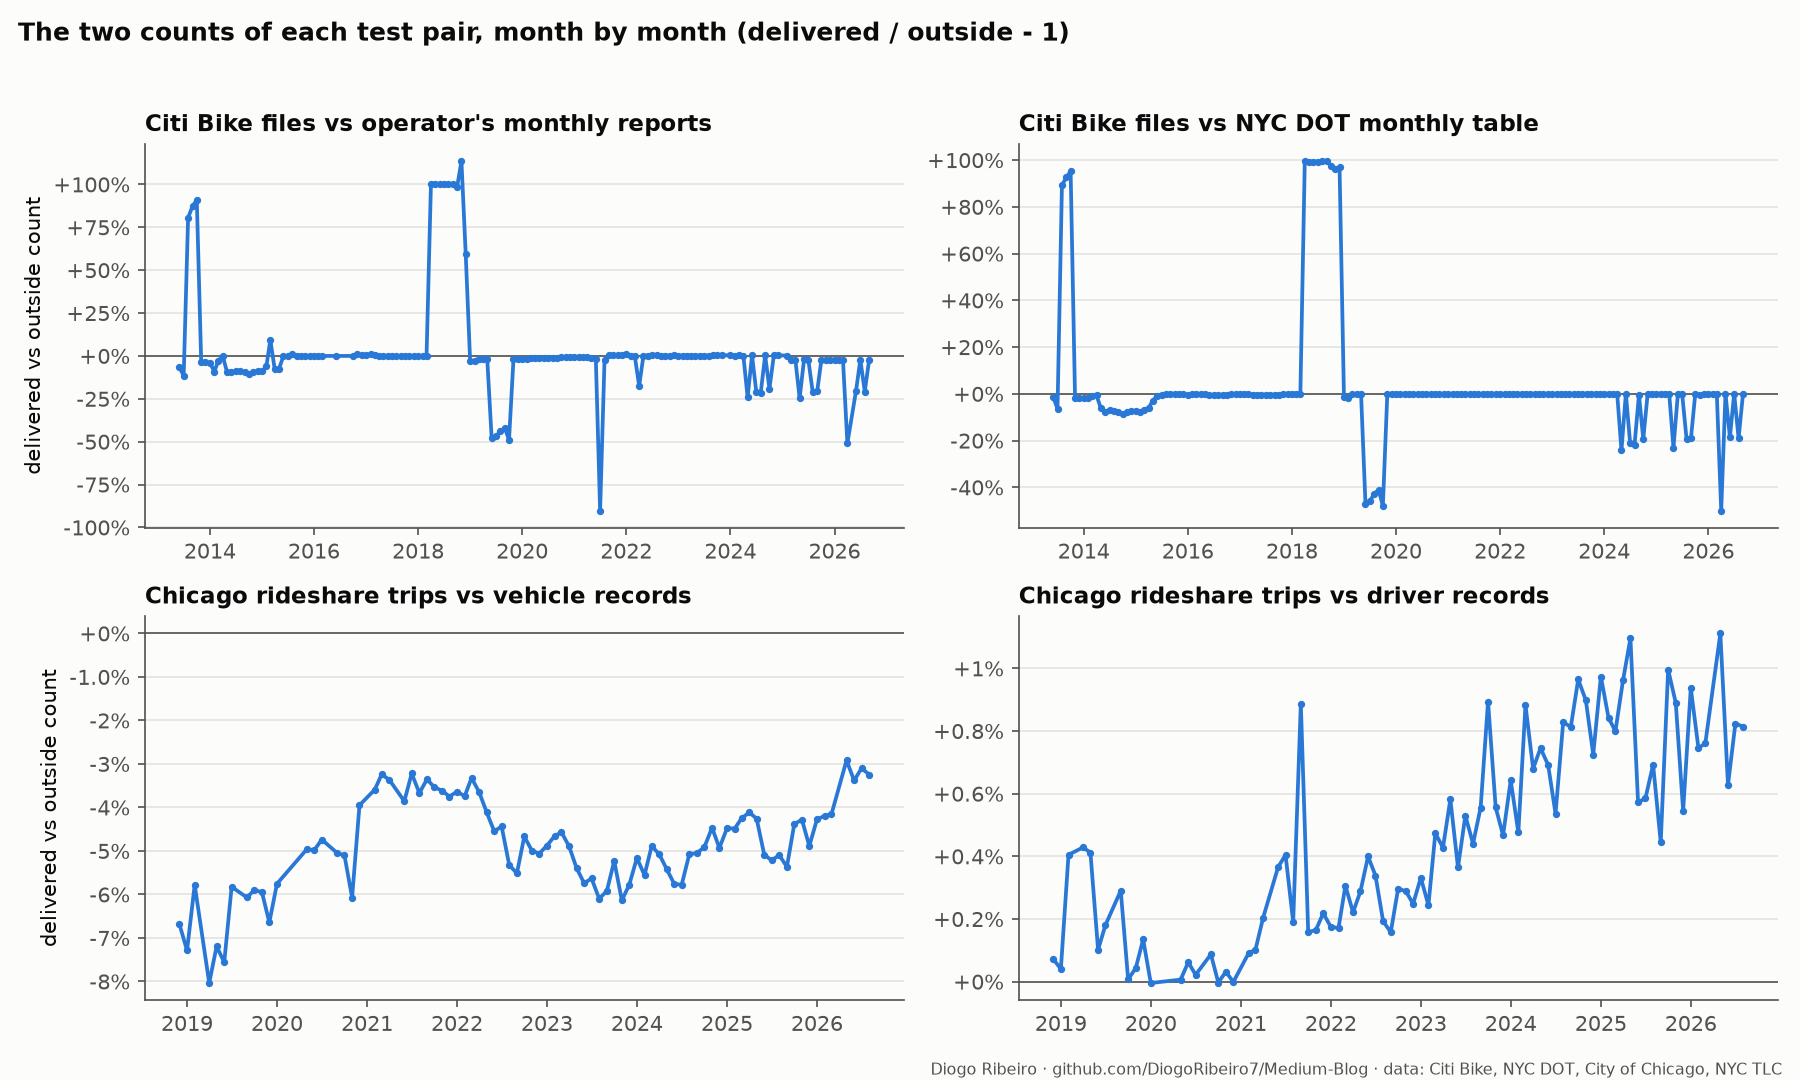
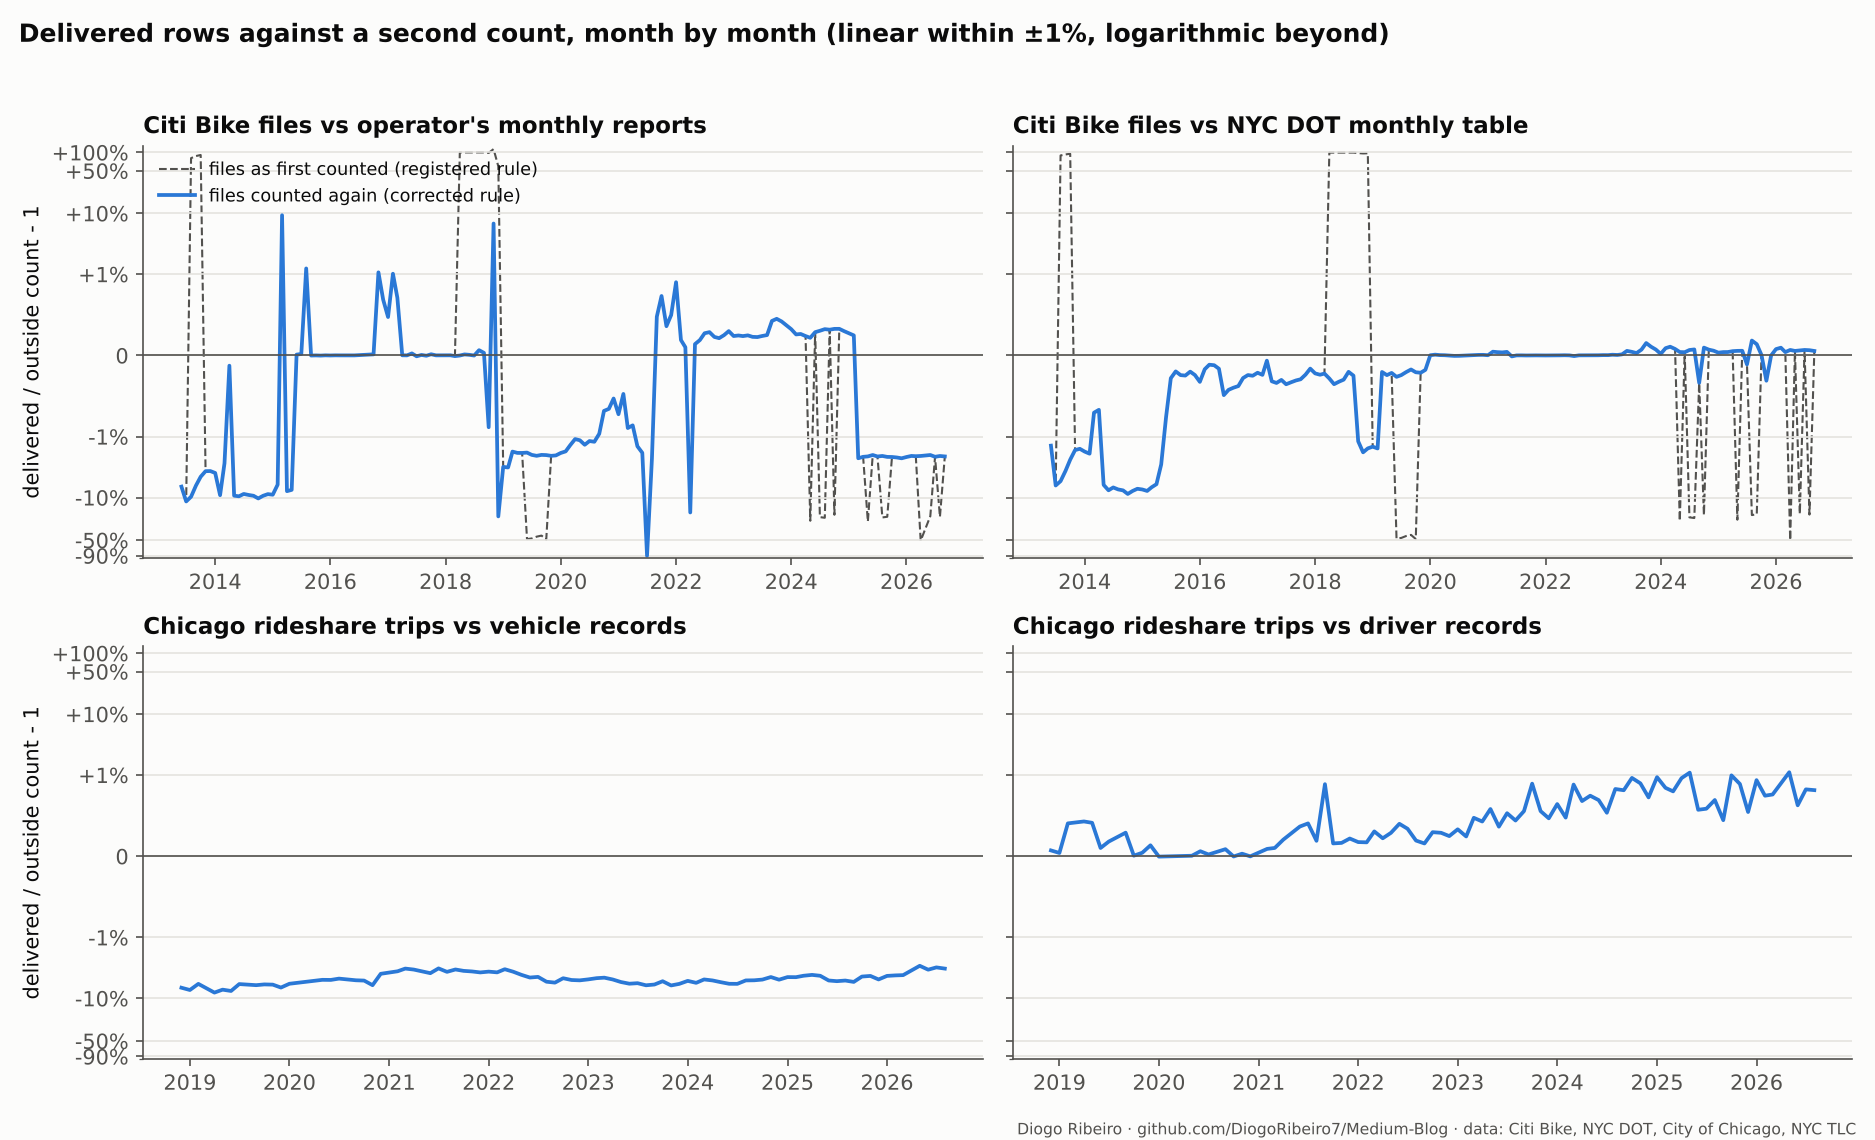
second-count-prediction: two figures (agreement; prediction against observation), README results

diff --git a/second-count-prediction/figures.py b/second-count-prediction/figures.py
@@ -2,9 +2,9 @@
 
     python figures.py
 
-fig1  the two counts of each test pair, month by month: delivered / outside - 1
-fig2  share of random losses caught, by loss, for the four test pairs, with the two predictions marked
-fig3  predicted against observed smallest loss caught 90% of the time, test and calibration pairs
+fig1  the two counts of each test pair, month by month: delivered / outside - 1 (Citi Bike as first counted,
+      with the registered rule, and as counted again with the corrected rule)
+fig2  detection against loss / predicted loss, and predicted against observed (post hoc counts for Citi Bike)
 """
 
 from __future__ import annotations
@@ -53,29 +53,36 @@ plt.rcParams.update(
 )
 
 
-def pct(x, _=None):
-    return f"{100 * x:+.0f}%" if abs(x) >= 0.01 or x == 0 else f"{100 * x:+.1f}%"
-
-
 def loss_label(x, _=None):
-    return f"{100 * x:.2g}%"
+    return f"{100 * x:g}%"
 
 
-def fig1(ratios: pd.DataFrame) -> None:
-    fig, axes = plt.subplots(2, 2, figsize=(12, 7.2), sharex=False)
+def fig1(reg: pd.DataFrame, cor: pd.DataFrame) -> None:
+    """The two counts of each test pair, month by month, on a scale that is linear within +-1%."""
+    fig, axes = plt.subplots(2, 2, figsize=(12.5, 7.6), sharey=True)
     for ax, pair in zip(axes.flat, TEST, strict=True):
-        d = ratios[ratios.pair == pair].copy()
-        d["t"] = pd.to_datetime(d.month + "-01")
-        y = (d.log_ratio.astype(float)).map(math.expm1)
+        for frame, color, lw, label, z in (
+            (reg, INK2, 1.0, "files as first counted (registered rule)", 1),
+            (cor, BLUE, 1.8, "files counted again (corrected rule)", 2),
+        ):
+            d = frame[frame.pair == pair]
+            if pair.startswith("chicago") and frame is reg:
+                continue
+            t = pd.to_datetime(d.month + "-01")
+            y = d.log_ratio.astype(float).map(math.expm1)
+            ax.plot(t, y, color=color, lw=lw, ls="--" if frame is reg else "-", label=label, zorder=z)
         ax.axhline(0, color=INK2, lw=0.8)
-        ax.plot(d.t, y, color=BLUE, lw=1.8, marker="o", ms=2.5)
+        ax.set_yscale("symlog", linthresh=0.01, linscale=1.2)
+        ax.set_ylim(-1.0, 1.3)
+        ax.yaxis.set_major_locator(mticker.FixedLocator([-0.9, -0.5, -0.1, -0.01, 0, 0.01, 0.1, 0.5, 1.0]))
+        ax.yaxis.set_major_formatter(mticker.FuncFormatter(lambda v, _: f"{100 * v:+.0f}%" if v else "0"))
         ax.set_title(TITLE[pair], loc="left")
-        ax.yaxis.set_major_formatter(mticker.FuncFormatter(pct))
         ax.grid(axis="y", color=GRID, lw=0.8)
-    axes[0, 0].set_ylabel("delivered vs outside count")
-    axes[1, 0].set_ylabel("delivered vs outside count")
+    axes[0, 0].legend(frameon=False, fontsize=8.5, loc="upper left")
+    for ax in axes[:, 0]:
+        ax.set_ylabel("delivered / outside count - 1")
     fig.suptitle(
-        "The two counts of each test pair, month by month (delivered / outside - 1)",
+        "Delivered rows against a second count, month by month (linear within ±1%, logarithmic beyond)",
         x=0.01,
         ha="left",
         fontweight="bold",
@@ -87,98 +94,72 @@ def fig1(ratios: pd.DataFrame) -> None:
 
 
 def fig2(curves: pd.DataFrame, pairs: dict) -> None:
-    fig, axes = plt.subplots(1, 4, figsize=(15, 4.3), sharey=True)
-    for ax, pair in zip(axes, TEST, strict=True):
-        d = curves[curves.pair == pair]
-        p = pairs[pair]
-        ax.axhline(0.9, color=INK2, lw=0.8, ls=":")
-        ax.plot(d.loss, d.detected, color=BLUE, lw=2, marker="o", ms=3.5, label="caught (5% alarm budget)")
-        ax.axvline(p["predicted_p95_rule"], color=ORANGE, lw=1.6, label="p95 rule")
-        ax.axvspan(p["predicted_p95_rule"] / 2, min(2 * p["predicted_p95_rule"], 0.6), color=ORANGE, alpha=0.08)
-        ax.axvline(p["predicted_gaussian_rule"], color=VIOLET, lw=1.4, ls="--", label="Gaussian rule")
-        ax.set_xscale("log")
-        ax.set_xlim(0.0009, 0.55)
-        ax.xaxis.set_major_locator(mticker.FixedLocator([0.001, 0.01, 0.1, 0.5]))
-        ax.xaxis.set_major_formatter(mticker.FuncFormatter(loss_label))
-        ax.yaxis.set_major_formatter(mticker.PercentFormatter(1.0))
-        ax.set_title(TITLE[pair].replace(" vs ", "\nvs "), loc="left", fontsize=10)
-        ax.set_xlabel("rows lost at random")
-        ax.grid(color=GRID, lw=0.6)
-    axes[0].set_ylabel("faulted months caught")
-    axes[0].legend(frameon=False, fontsize=8, loc="upper left")
+    """Left: detection against loss / predicted loss. Right: predicted against observed, both rules."""
+    fig, (ax, bx) = plt.subplots(1, 2, figsize=(13.5, 5.8), gridspec_kw={"width_ratios": [1.25, 1]})
+    colors = dict(zip(TEST, (BLUE, AQUA, ORANGE, VIOLET), strict=True))
+    for name, p in pairs.items():
+        d = curves[curves.pair == name]
+        x = d.loss / p["predicted_p95_rule"]
+        if p["test"]:
+            ax.plot(x, d.detected, color=colors[name], lw=2, label=TITLE[name])
+        else:
+            ax.plot(x, d.detected, color=GRID, lw=1.2, zorder=0)
+    ax.axvspan(0.5, 2, color=ORANGE, alpha=0.08, lw=0)
+    ax.axvline(1, color=ORANGE, lw=1)
+    ax.axhline(0.9, color=INK2, lw=0.8, ls=":")
+    ax.set_xscale("log")
+    ax.set_xlim(0.01, 30)
+    ax.xaxis.set_major_formatter(mticker.FuncFormatter(lambda v, _: f"{v:g}x"))
+    ax.yaxis.set_major_formatter(mticker.PercentFormatter(1.0))
+    ax.set_xlabel("rows lost, as a multiple of the loss the p95 rule predicts")
+    ax.set_ylabel("faulted months caught (5% alarm budget)")
+    ax.set_title("Detection against the prediction (grey: Part 4's TLC pairs)", loc="left", fontsize=10)
+    ax.legend(frameon=False, fontsize=8, loc="lower right")
+    ax.grid(color=GRID, lw=0.6)
+
+    lo, hi = 0.0001, 1.0
+    xs = [lo, hi]
+    bx.plot(xs, xs, color=INK2, lw=1)
+    bx.fill_between(xs, [x / 2 for x in xs], [2 * x for x in xs], color=ORANGE, alpha=0.08, lw=0)
+    for name, p in pairs.items():
+        obs = p["observed_l90"]
+        c = colors.get(name, INK2)
+        bx.plot([p["predicted_gaussian_rule"], p["predicted_p95_rule"]], [obs, obs], color=GRID, lw=1, zorder=1)
+        bx.scatter(p["predicted_p95_rule"], obs, s=70, zorder=3, color=c if p["test"] else SURFACE, edgecolor=c, lw=1.5)
+        bx.scatter(p["predicted_gaussian_rule"], obs, s=36, zorder=2, marker="s", color=SURFACE, edgecolor=c, lw=1.2)
+    bx.set_xscale("log")
+    bx.set_yscale("log")
+    bx.set_xlim(lo, hi)
+    bx.set_ylim(lo, hi)
+    for axis in (bx.xaxis, bx.yaxis):
+        axis.set_major_formatter(mticker.FuncFormatter(loss_label))
+    bx.set_xlabel("predicted smallest loss caught 90% of the time")
+    bx.set_ylabel("observed")
+    bx.set_title("Circles: p95 rule; squares: Gaussian rule; band: factor of two", loc="left", fontsize=10)
+    bx.grid(color=GRID, lw=0.6)
     fig.suptitle(
-        "Random losses caught by the outside count, with the two predictions (shaded: within a factor of two "
-        "of the p95 rule)",
+        "Does agreement on clean months predict the smallest loss a second count catches?",
         x=0.01,
         ha="left",
         fontweight="bold",
     )
     fig.text(0.99, 0.005, CREDIT, ha="right", fontsize=7.5, color=INK2)
-    fig.tight_layout(rect=(0, 0.03, 1, 0.93))
-    fig.savefig(FIG / "fig2_detection.png", dpi=150)
-    plt.close(fig)
-
-
-def fig3(pairs: dict) -> None:
-    fig, ax = plt.subplots(figsize=(7.2, 6.4))
-    lo, hi = 0.0003, 1.0
-    xs = [lo, hi]
-    ax.plot(xs, xs, color=INK2, lw=1)
-    ax.fill_between(xs, [x / 2 for x in xs], [2 * x for x in xs], color=ORANGE, alpha=0.08, lw=0)
-    for name, p in pairs.items():
-        obs = p["observed_l90"] if p["observed_l90"] is not None else 0.6
-        test = p["test"]
-        ax.plot([p["predicted_gaussian_rule"], p["predicted_p95_rule"]], [obs, obs], color=GRID, lw=1, zorder=1)
-        ax.scatter(
-            p["predicted_p95_rule"], obs, s=60, zorder=3, color=ORANGE if test else SURFACE, edgecolor=ORANGE, lw=1.5
-        )
-        ax.scatter(
-            p["predicted_gaussian_rule"],
-            obs,
-            s=40,
-            zorder=2,
-            marker="s",
-            color=VIOLET if test else SURFACE,
-            edgecolor=VIOLET,
-            lw=1.2,
-        )
-        ax.annotate(
-            name.replace(" / ", " vs ").replace("monthly report", "report"),
-            (p["predicted_p95_rule"], obs),
-            xytext=(6, 4),
-            textcoords="offset points",
-            fontsize=7.5,
-            color=INK2,
-        )
-    ax.set_xscale("log")
-    ax.set_yscale("log")
-    ax.set_xlim(lo, hi)
-    ax.set_ylim(lo, hi)
-    for axis in (ax.xaxis, ax.yaxis):
-        axis.set_major_formatter(mticker.FuncFormatter(loss_label))
-    ax.set_xlabel("predicted smallest loss caught 90% of the time")
-    ax.set_ylabel("observed smallest loss caught 90% of the time")
-    ax.grid(color=GRID, lw=0.6)
-    ax.set_title(
-        "Predicted against observed (circles: p95 rule; squares: Gaussian rule;\nfilled: test pairs; "
-        "hollow: Part 4's pairs; band: within a factor of two)",
-        loc="left",
-        fontsize=9.5,
-    )
-    fig.text(0.99, 0.005, CREDIT, ha="right", fontsize=6.5, color=INK2)
-    fig.tight_layout(rect=(0, 0.02, 1, 1))
-    fig.savefig(FIG / "fig3_predicted_observed.png", dpi=150)
+    fig.tight_layout(rect=(0, 0.03, 1, 0.94))
+    fig.savefig(FIG / "fig2_prediction.png", dpi=150)
     plt.close(fig)
 
 
 def main() -> None:
     FIG.mkdir(exist_ok=True)
-    ratios = pd.read_csv(RES / "ratios.csv")
-    curves = pd.read_csv(RES / "curves.csv")
-    pairs = json.loads((RES / "pairs.json").read_text(encoding="utf-8"))
-    fig1(ratios)
+    for old in ("fig1_agreement.png", "fig2_detection.png", "fig3_predicted_observed.png"):
+        (FIG / old).unlink(missing_ok=True)
+    cor_dir = RES / "corrected" if (RES / "corrected").exists() else RES
+    reg = pd.read_csv(RES / "ratios.csv")
+    cor = pd.read_csv(cor_dir / "ratios.csv")
+    curves = pd.read_csv(cor_dir / "curves.csv")
+    pairs = json.loads((cor_dir / "pairs.json").read_text(encoding="utf-8"))
+    fig1(reg, cor)
     fig2(curves, pairs)
-    fig3(pairs)
 
 
 if __name__ == "__main__":

diff --git a/second-count-prediction/README.md b/second-count-prediction/README.md
@@ -13,8 +13,20 @@ counts:
   records;
 - the same trips against the trips summed over the driver records.
 
-The hypotheses and every setting are in `PLAN.md`, committed before any count from these sources was fetched,
-with one change made before any result was seen (recorded there).
+The hypotheses and every setting are in `PLAN.md`, committed before any count from these sources was fetched;
+the changes made before any result was seen are recorded there.
+
+## Results in one paragraph
+
+As registered (`results/summary.txt`): H1 held in all four pairs and H2 in all four, but for the two Citi Bike
+pairs only through the "never reached" clause, because the registered rule for duplicate CSVs counted some
+months twice (2013, 2018: a month held both as one file and as parts) and dropped equal-size parts in others
+(2019, 2024 to 2026). The two outside counts are what showed it. Post hoc (`results/corrected/`), with every
+CSV recounted and a corrected layout rule (`feed/layout.py`), and everything else unchanged: the observed
+smallest loss caught 90% of the time is within a factor of two of the p95 rule for Chicago vehicles (3.6%
+predicted, 5.0% observed), Chicago drivers (0.73%, 0.79%) and Citi Bike against the operator's reports (14.8%,
+25.1%), but not for Citi Bike against NYC DOT's table (10.7% predicted, 3.2% observed), whose large deviations
+are confined to 2013-2015; the p95 rule is closer than the Gaussian rule in all four pairs.
 
 ## Files
 
@@ -22,9 +34,13 @@ with one change made before any result was seen (recorded there).
 - `feed/sources.py`: snapshot of the outside counts (operator reports, NYC DOT table, Chicago portal counts)
   and, before `PLAN.md` existed, of names, sizes and HTTP status only (`sources/METADATA.json`).
 - `feed/citibike.py`: downloads the Citi Bike archives of a year and counts the rows by month of trip start.
+- `feed/layout.py`: which CSVs of an archive make up a month: the registered rule and the corrected one.
 - `feed/detect.py`: Part 4's detector (unchanged), the prediction rules and the loss grid.
 - `evaluate.py`: the test; writes `results/summary.txt`, `results/pairs.json`, `results/curves.csv` and
-  `results/ratios.csv`.
+  `results/ratios.csv` as registered, and the same files under `results/corrected/` for the post hoc counts.
+- `diagnose.py`: post hoc, prints the sentence an operator-report total was read from
+  (`results/diagnosis.txt`).
+- `sources/FROZEN`: the outside counts are the registered run's snapshot and are not fetched again.
 - `figures.py`, `figures/`: the figures of the article.
 - `tests/`: unit tests, including one that reproduces two of Part 4's published detection rates.
 
